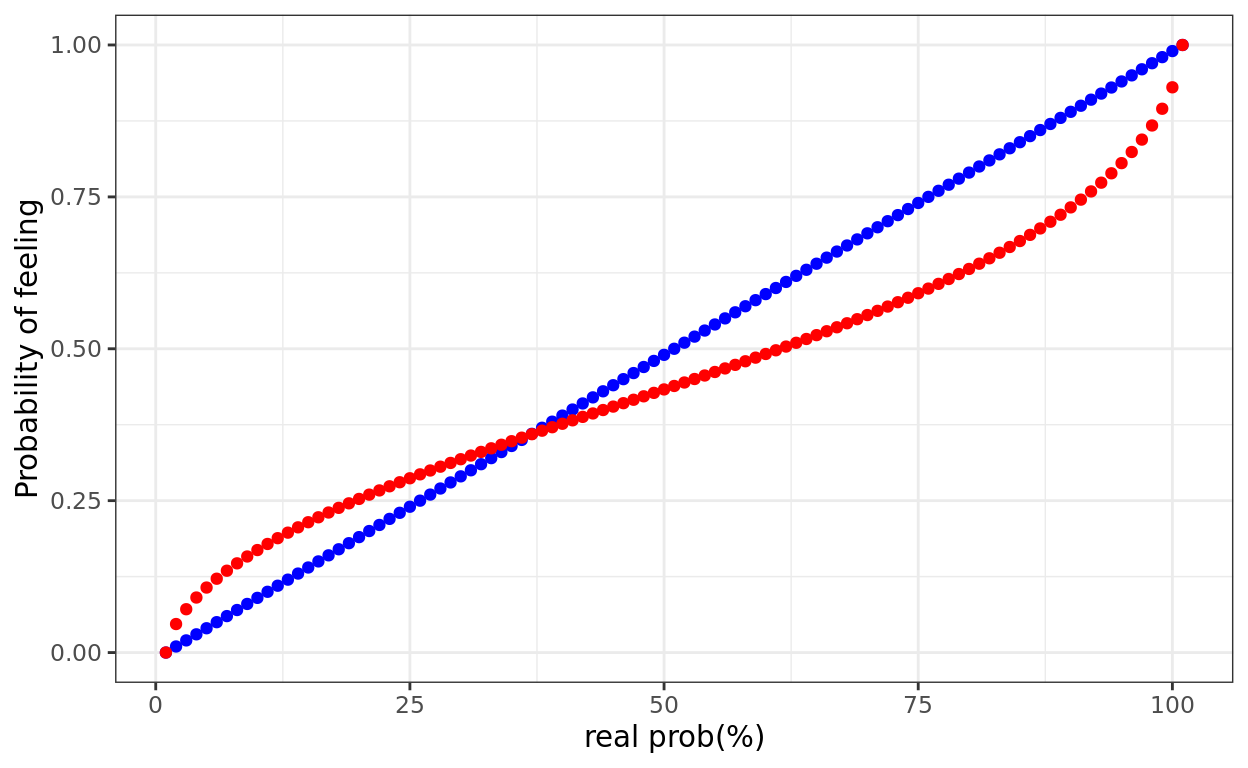
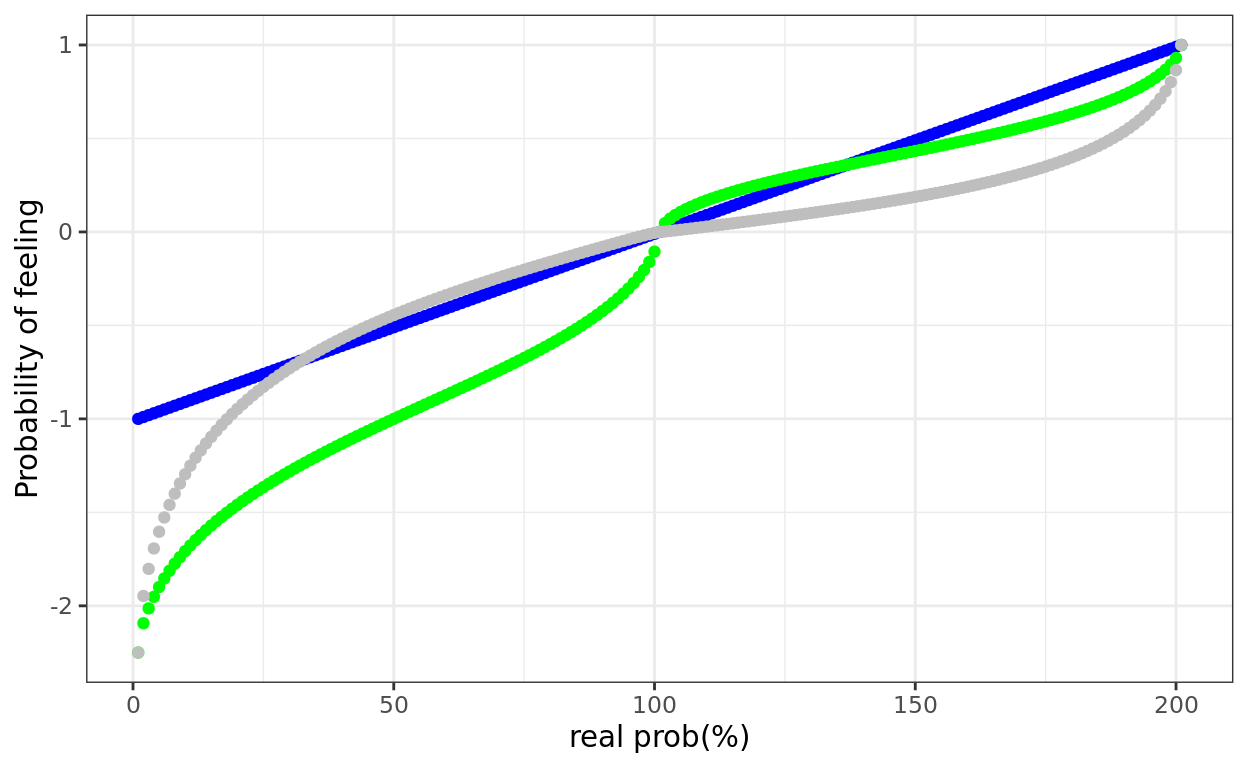
dd

diff --git a/_posts/2021-03-05-wtvaluef/wtvaluef.html b/_posts/2021-03-05-wtvaluef/wtvaluef.html
@@ -1518,23 +1518,18 @@ code span.wa { color: #5e5e5e; font-style: italic; } /* Warning */
 <span class='op'>}</span>
 
 <span class='co'>#확률리스트 생성</span>
-<span class='va'>p_list</span> <span class='op'>=</span> <span class='fu'><a href='https://rdrr.io/r/base/seq.html'>seq</a></span><span class='op'>(</span><span class='fl'>0</span>,<span class='fl'>1</span>,by<span class='op'>=</span><span class='fl'>0.01</span><span class='op'>)</span>
+<span class='va'>p_list</span> <span class='op'>=</span> <span class='fu'><a href='https://rdrr.io/r/base/seq.html'>seq</a></span><span class='op'>(</span><span class='op'>-</span><span class='fl'>1</span>,<span class='fl'>1</span>,by<span class='op'>=</span><span class='fl'>0.01</span><span class='op'>)</span>
 <span class='va'>p_df</span> <span class='op'>=</span> <span class='fu'><a href='https://rdrr.io/r/base/data.frame.html'>data.frame</a></span><span class='op'>(</span><span class='va'>p_list</span><span class='op'>)</span>
-<span class='va'>p_df</span><span class='op'>$</span><span class='va'>W_P</span> <span class='op'>=</span> <span class='fu'><a href='https://rdrr.io/r/base/unlist.html'>unlist</a></span><span class='op'>(</span><span class='fu'><a href='https://rdrr.io/r/base/funprog.html'>Map</a></span><span class='op'>(</span><span class='va'>w_p</span>, <span class='va'>p_list</span><span class='op'>)</span><span class='op'>)</span>
-<span class='fu'><a href='https://rdrr.io/r/utils/head.html'>head</a></span><span class='op'>(</span><span class='va'>p_df</span><span class='op'>)</span>
-</code></pre>
-</div>
-<pre><code>  p_list        W_P
-1   0.00 0.00000000
-2   0.01 0.04693333
-3   0.02 0.07132103
-4   0.03 0.09057428
-5   0.04 0.10699114
-6   0.05 0.12152793</code></pre>
-<div class="sourceCode">
-<pre class="sourceCode r"><code class="sourceCode r"><span class='kw'><a href='https://rdrr.io/r/base/library.html'>library</a></span><span class='op'>(</span><span class='va'><a href='https://ggplot2.tidyverse.org'>ggplot2</a></span><span class='op'>)</span>
+<span class='va'>p_df</span><span class='op'>$</span><span class='va'>W_P</span> <span class='op'>=</span> <span class='fu'><a href='https://rdrr.io/r/base/unlist.html'>unlist</a></span><span class='op'>(</span><span class='fu'><a href='https://rdrr.io/r/base/funprog.html'>Map</a></span><span class='op'>(</span><span class='va'>w_p</span>, <span class='fu'><a href='https://rdrr.io/r/base/MathFun.html'>abs</a></span><span class='op'>(</span><span class='va'>p_list</span><span class='op'>)</span><span class='op'>)</span><span class='op'>)</span>
+<span class='va'>p_df</span><span class='op'>$</span><span class='va'>VALUE_F</span> <span class='op'>=</span> <span class='fu'><a href='https://rdrr.io/r/base/unlist.html'>unlist</a></span><span class='op'>(</span><span class='fu'><a href='https://rdrr.io/r/base/funprog.html'>Map</a></span><span class='op'>(</span><span class='va'>w_p</span>, <span class='va'>p_list</span><span class='op'>)</span><span class='op'>)</span>
+<span class='va'>p_df</span><span class='op'>$</span><span class='va'>FELL_VALUE</span> <span class='op'>=</span> <span class='va'>p_df</span><span class='op'>$</span><span class='va'>W_P</span><span class='op'>*</span><span class='va'>p_df</span><span class='op'>$</span><span class='va'>VALUE_F</span>
+<span class='co'>#head(p_df)</span>
+
+<span class='kw'><a href='https://rdrr.io/r/base/library.html'>library</a></span><span class='op'>(</span><span class='va'><a href='https://ggplot2.tidyverse.org'>ggplot2</a></span><span class='op'>)</span>
 <span class='fu'><a href='https://ggplot2.tidyverse.org/reference/ggplot.html'>ggplot</a></span><span class='op'>(</span><span class='op'>)</span> <span class='op'>+</span> <span class='fu'><a href='https://ggplot2.tidyverse.org/reference/geom_point.html'>geom_point</a></span><span class='op'>(</span>data<span class='op'>=</span><span class='va'>p_df</span>, <span class='fu'><a href='https://ggplot2.tidyverse.org/reference/aes.html'>aes</a></span><span class='op'>(</span>x<span class='op'>=</span><span class='fl'>1</span><span class='op'>:</span><span class='fu'><a href='https://rdrr.io/r/base/nrow.html'>nrow</a></span><span class='op'>(</span><span class='va'>p_df</span><span class='op'>)</span>, y<span class='op'>=</span><span class='va'>p_list</span><span class='op'>)</span>, col<span class='op'>=</span><span class='st'>'blue'</span><span class='op'>)</span><span class='op'>+</span>
-  <span class='fu'><a href='https://ggplot2.tidyverse.org/reference/geom_point.html'>geom_point</a></span><span class='op'>(</span>data<span class='op'>=</span><span class='va'>p_df</span>, <span class='fu'><a href='https://ggplot2.tidyverse.org/reference/aes.html'>aes</a></span><span class='op'>(</span>x<span class='op'>=</span><span class='fl'>1</span><span class='op'>:</span><span class='fu'><a href='https://rdrr.io/r/base/nrow.html'>nrow</a></span><span class='op'>(</span><span class='va'>p_df</span><span class='op'>)</span>, y<span class='op'>=</span><span class='va'>W_P</span><span class='op'>)</span>, col<span class='op'>=</span><span class='st'>'red'</span><span class='op'>)</span><span class='op'>+</span>
+  <span class='co'>#geom_point(data=p_df, aes(x=1:nrow(p_df), y=W_P), col='red')+</span>
+  <span class='fu'><a href='https://ggplot2.tidyverse.org/reference/geom_point.html'>geom_point</a></span><span class='op'>(</span>data<span class='op'>=</span><span class='va'>p_df</span>, <span class='fu'><a href='https://ggplot2.tidyverse.org/reference/aes.html'>aes</a></span><span class='op'>(</span>x<span class='op'>=</span><span class='fl'>1</span><span class='op'>:</span><span class='fu'><a href='https://rdrr.io/r/base/nrow.html'>nrow</a></span><span class='op'>(</span><span class='va'>p_df</span><span class='op'>)</span>, y<span class='op'>=</span><span class='va'>VALUE_F</span><span class='op'>)</span>, col<span class='op'>=</span><span class='st'>'green'</span><span class='op'>)</span><span class='op'>+</span>
+  <span class='fu'><a href='https://ggplot2.tidyverse.org/reference/geom_point.html'>geom_point</a></span><span class='op'>(</span>data<span class='op'>=</span><span class='va'>p_df</span>, <span class='fu'><a href='https://ggplot2.tidyverse.org/reference/aes.html'>aes</a></span><span class='op'>(</span>x<span class='op'>=</span><span class='fl'>1</span><span class='op'>:</span><span class='fu'><a href='https://rdrr.io/r/base/nrow.html'>nrow</a></span><span class='op'>(</span><span class='va'>p_df</span><span class='op'>)</span>, y<span class='op'>=</span><span class='va'>FELL_VALUE</span><span class='op'>)</span>, col<span class='op'>=</span><span class='st'>'grey'</span><span class='op'>)</span><span class='op'>+</span>
   <span class='fu'><a href='https://ggplot2.tidyverse.org/reference/labs.html'>xlab</a></span><span class='op'>(</span><span class='st'>'real prob(%)'</span><span class='op'>)</span><span class='op'>+</span>
   <span class='fu'><a href='https://ggplot2.tidyverse.org/reference/labs.html'>ylab</a></span><span class='op'>(</span><span class='st'>'Probability of feeling'</span><span class='op'>)</span> <span class='op'>+</span> <span class='fu'><a href='https://ggplot2.tidyverse.org/reference/ggtheme.html'>theme_bw</a></span><span class='op'>(</span><span class='op'>)</span>
 </code></pre>
@@ -1543,7 +1538,7 @@ code span.wa { color: #5e5e5e; font-style: italic; } /* Warning */
 </div>
 <p>Distill is a publication format for scientific and technical writing, native to the web.</p>
 <p>Learn more about using Distill at <a href="https://rstudio.github.io/distill" class="uri">https://rstudio.github.io/distill</a>.</p>
-<div class="sourceCode" id="cb2"><pre class="sourceCode r distill-force-highlighting-css"><code class="sourceCode r"></code></pre></div>
+<div class="sourceCode" id="cb1"><pre class="sourceCode r distill-force-highlighting-css"><code class="sourceCode r"></code></pre></div>
 <!--radix_placeholder_article_footer-->
 <!--/radix_placeholder_article_footer-->
 </div>

diff --git a/docs/posts/2021-03-05-wtvaluef/index.html b/docs/posts/2021-03-05-wtvaluef/index.html
@@ -2154,23 +2154,18 @@ document.addEventListener('DOMContentLoaded', function() {
 <span class='op'>}</span>
 
 <span class='co'>#확률리스트 생성</span>
-<span class='va'>p_list</span> <span class='op'>=</span> <span class='fu'><a href='https://rdrr.io/r/base/seq.html'>seq</a></span><span class='op'>(</span><span class='fl'>0</span>,<span class='fl'>1</span>,by<span class='op'>=</span><span class='fl'>0.01</span><span class='op'>)</span>
+<span class='va'>p_list</span> <span class='op'>=</span> <span class='fu'><a href='https://rdrr.io/r/base/seq.html'>seq</a></span><span class='op'>(</span><span class='op'>-</span><span class='fl'>1</span>,<span class='fl'>1</span>,by<span class='op'>=</span><span class='fl'>0.01</span><span class='op'>)</span>
 <span class='va'>p_df</span> <span class='op'>=</span> <span class='fu'><a href='https://rdrr.io/r/base/data.frame.html'>data.frame</a></span><span class='op'>(</span><span class='va'>p_list</span><span class='op'>)</span>
-<span class='va'>p_df</span><span class='op'>$</span><span class='va'>W_P</span> <span class='op'>=</span> <span class='fu'><a href='https://rdrr.io/r/base/unlist.html'>unlist</a></span><span class='op'>(</span><span class='fu'><a href='https://rdrr.io/r/base/funprog.html'>Map</a></span><span class='op'>(</span><span class='va'>w_p</span>, <span class='va'>p_list</span><span class='op'>)</span><span class='op'>)</span>
-<span class='fu'><a href='https://rdrr.io/r/utils/head.html'>head</a></span><span class='op'>(</span><span class='va'>p_df</span><span class='op'>)</span>
-</code></pre>
-</div>
-<pre><code>  p_list        W_P
-1   0.00 0.00000000
-2   0.01 0.04693333
-3   0.02 0.07132103
-4   0.03 0.09057428
-5   0.04 0.10699114
-6   0.05 0.12152793</code></pre>
-<div class="sourceCode">
-<pre class="sourceCode r"><code class="sourceCode r"><span class='kw'><a href='https://rdrr.io/r/base/library.html'>library</a></span><span class='op'>(</span><span class='va'><a href='https://ggplot2.tidyverse.org'>ggplot2</a></span><span class='op'>)</span>
+<span class='va'>p_df</span><span class='op'>$</span><span class='va'>W_P</span> <span class='op'>=</span> <span class='fu'><a href='https://rdrr.io/r/base/unlist.html'>unlist</a></span><span class='op'>(</span><span class='fu'><a href='https://rdrr.io/r/base/funprog.html'>Map</a></span><span class='op'>(</span><span class='va'>w_p</span>, <span class='fu'><a href='https://rdrr.io/r/base/MathFun.html'>abs</a></span><span class='op'>(</span><span class='va'>p_list</span><span class='op'>)</span><span class='op'>)</span><span class='op'>)</span>
+<span class='va'>p_df</span><span class='op'>$</span><span class='va'>VALUE_F</span> <span class='op'>=</span> <span class='fu'><a href='https://rdrr.io/r/base/unlist.html'>unlist</a></span><span class='op'>(</span><span class='fu'><a href='https://rdrr.io/r/base/funprog.html'>Map</a></span><span class='op'>(</span><span class='va'>w_p</span>, <span class='va'>p_list</span><span class='op'>)</span><span class='op'>)</span>
+<span class='va'>p_df</span><span class='op'>$</span><span class='va'>FELL_VALUE</span> <span class='op'>=</span> <span class='va'>p_df</span><span class='op'>$</span><span class='va'>W_P</span><span class='op'>*</span><span class='va'>p_df</span><span class='op'>$</span><span class='va'>VALUE_F</span>
+<span class='co'>#head(p_df)</span>
+
+<span class='kw'><a href='https://rdrr.io/r/base/library.html'>library</a></span><span class='op'>(</span><span class='va'><a href='https://ggplot2.tidyverse.org'>ggplot2</a></span><span class='op'>)</span>
 <span class='fu'><a href='https://ggplot2.tidyverse.org/reference/ggplot.html'>ggplot</a></span><span class='op'>(</span><span class='op'>)</span> <span class='op'>+</span> <span class='fu'><a href='https://ggplot2.tidyverse.org/reference/geom_point.html'>geom_point</a></span><span class='op'>(</span>data<span class='op'>=</span><span class='va'>p_df</span>, <span class='fu'><a href='https://ggplot2.tidyverse.org/reference/aes.html'>aes</a></span><span class='op'>(</span>x<span class='op'>=</span><span class='fl'>1</span><span class='op'>:</span><span class='fu'><a href='https://rdrr.io/r/base/nrow.html'>nrow</a></span><span class='op'>(</span><span class='va'>p_df</span><span class='op'>)</span>, y<span class='op'>=</span><span class='va'>p_list</span><span class='op'>)</span>, col<span class='op'>=</span><span class='st'>'blue'</span><span class='op'>)</span><span class='op'>+</span>
-  <span class='fu'><a href='https://ggplot2.tidyverse.org/reference/geom_point.html'>geom_point</a></span><span class='op'>(</span>data<span class='op'>=</span><span class='va'>p_df</span>, <span class='fu'><a href='https://ggplot2.tidyverse.org/reference/aes.html'>aes</a></span><span class='op'>(</span>x<span class='op'>=</span><span class='fl'>1</span><span class='op'>:</span><span class='fu'><a href='https://rdrr.io/r/base/nrow.html'>nrow</a></span><span class='op'>(</span><span class='va'>p_df</span><span class='op'>)</span>, y<span class='op'>=</span><span class='va'>W_P</span><span class='op'>)</span>, col<span class='op'>=</span><span class='st'>'red'</span><span class='op'>)</span><span class='op'>+</span>
+  <span class='co'>#geom_point(data=p_df, aes(x=1:nrow(p_df), y=W_P), col='red')+</span>
+  <span class='fu'><a href='https://ggplot2.tidyverse.org/reference/geom_point.html'>geom_point</a></span><span class='op'>(</span>data<span class='op'>=</span><span class='va'>p_df</span>, <span class='fu'><a href='https://ggplot2.tidyverse.org/reference/aes.html'>aes</a></span><span class='op'>(</span>x<span class='op'>=</span><span class='fl'>1</span><span class='op'>:</span><span class='fu'><a href='https://rdrr.io/r/base/nrow.html'>nrow</a></span><span class='op'>(</span><span class='va'>p_df</span><span class='op'>)</span>, y<span class='op'>=</span><span class='va'>VALUE_F</span><span class='op'>)</span>, col<span class='op'>=</span><span class='st'>'green'</span><span class='op'>)</span><span class='op'>+</span>
+  <span class='fu'><a href='https://ggplot2.tidyverse.org/reference/geom_point.html'>geom_point</a></span><span class='op'>(</span>data<span class='op'>=</span><span class='va'>p_df</span>, <span class='fu'><a href='https://ggplot2.tidyverse.org/reference/aes.html'>aes</a></span><span class='op'>(</span>x<span class='op'>=</span><span class='fl'>1</span><span class='op'>:</span><span class='fu'><a href='https://rdrr.io/r/base/nrow.html'>nrow</a></span><span class='op'>(</span><span class='va'>p_df</span><span class='op'>)</span>, y<span class='op'>=</span><span class='va'>FELL_VALUE</span><span class='op'>)</span>, col<span class='op'>=</span><span class='st'>'grey'</span><span class='op'>)</span><span class='op'>+</span>
   <span class='fu'><a href='https://ggplot2.tidyverse.org/reference/labs.html'>xlab</a></span><span class='op'>(</span><span class='st'>'real prob(%)'</span><span class='op'>)</span><span class='op'>+</span>
   <span class='fu'><a href='https://ggplot2.tidyverse.org/reference/labs.html'>ylab</a></span><span class='op'>(</span><span class='st'>'Probability of feeling'</span><span class='op'>)</span> <span class='op'>+</span> <span class='fu'><a href='https://ggplot2.tidyverse.org/reference/ggtheme.html'>theme_bw</a></span><span class='op'>(</span><span class='op'>)</span>
 </code></pre>
@@ -2179,7 +2174,7 @@ document.addEventListener('DOMContentLoaded', function() {
 </div>
 <p>Distill is a publication format for scientific and technical writing, native to the web.</p>
 <p>Learn more about using Distill at <a href="https://rstudio.github.io/distill" class="uri">https://rstudio.github.io/distill</a>.</p>
-<div class="sourceCode" id="cb2"><pre class="sourceCode r distill-force-highlighting-css"><code class="sourceCode r"></code></pre></div>
+<div class="sourceCode" id="cb1"><pre class="sourceCode r distill-force-highlighting-css"><code class="sourceCode r"></code></pre></div>
 <!--radix_placeholder_article_footer-->
 <div class="article-footer">
   <p class="social_footer">
